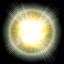
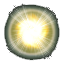
Cambiado el fondo de las imagenes de los pu a transparente

diff --git a/KometKevin/src/game/objects/PowerUpType.java b/KometKevin/src/game/objects/PowerUpType.java
@@ -21,7 +21,8 @@ public enum PowerUpType {
     }
     
     public static PowerUpType getRandom(){
-        return PowerUpType.values()[(int)(Math.random()*PowerUpType.values().length)];
+        return PowerUpType.values()[(int)(Math.random()*
+                                    PowerUpType.values().length)];
     }
 
 }

diff --git a/KometKevin/src/game/GameManager.java b/KometKevin/src/game/GameManager.java
@@ -35,7 +35,7 @@ public class GameManager extends AbstractGame {
         am = new AsteroidManager(camera,this);    
         hud = new HUD(player);
         
-        PowerUpFactory.getPowerUp(150, 150, this);
+        PowerUpFactory.getPowerUp(PowerUpType.LIFE, 150, 150, this);
         
     }
 
